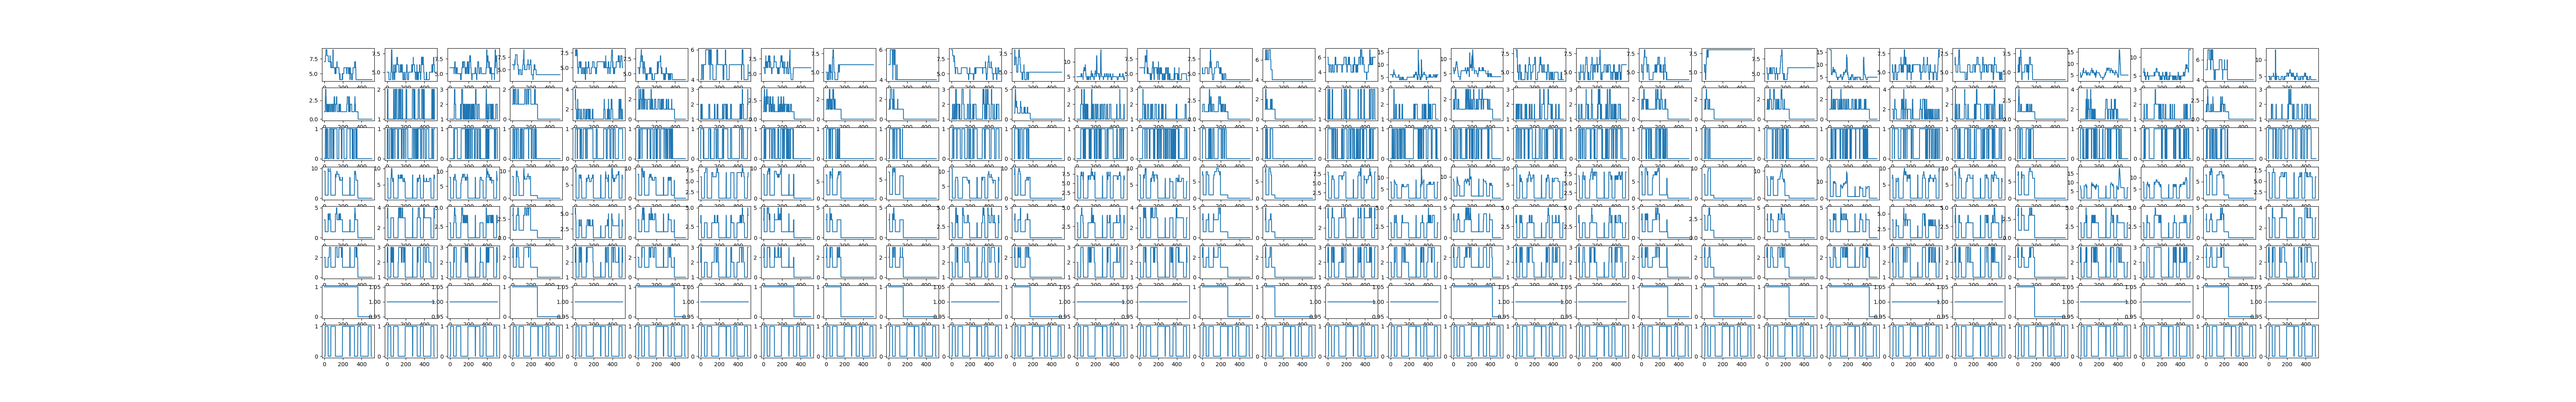
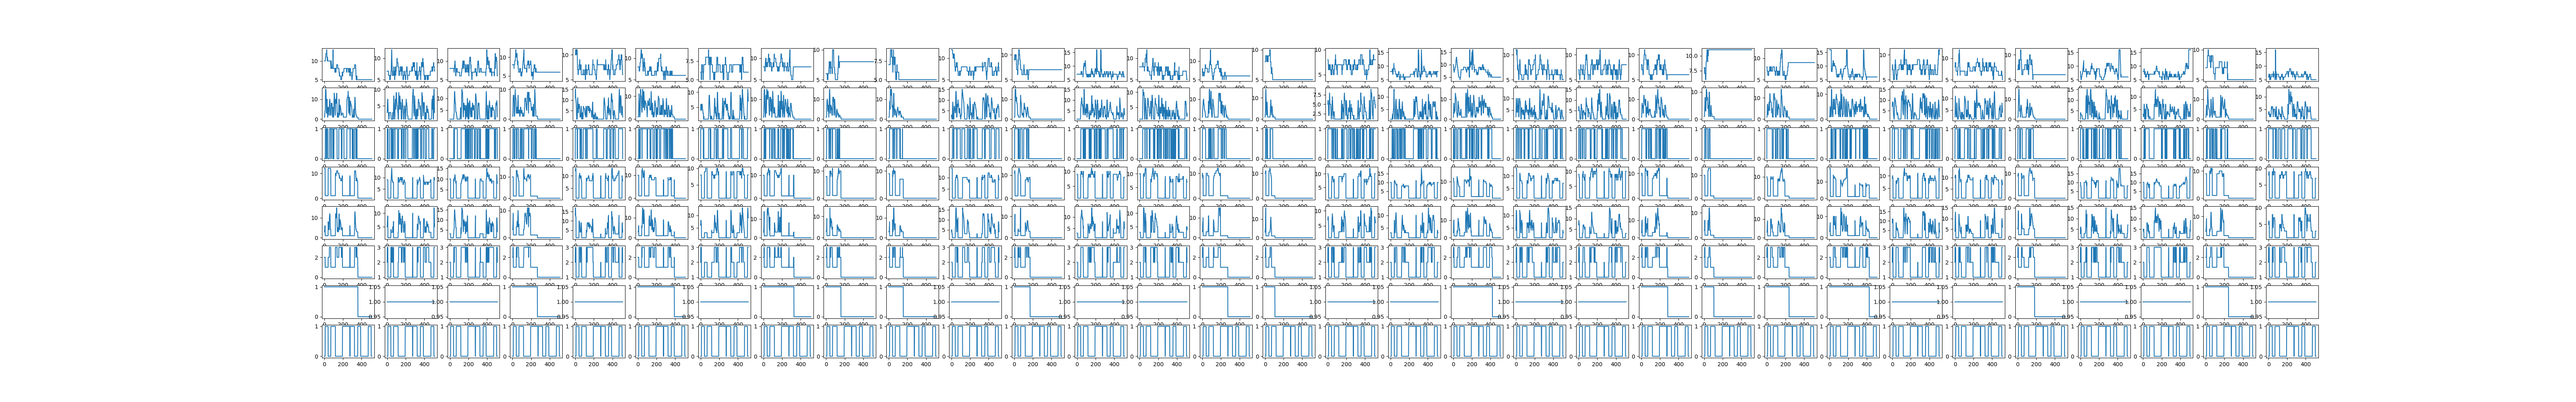
fix lr and stuff

diff --git a/configs/args.py b/configs/args.py
@@ -6,7 +6,6 @@ class TrainingArgs:
     lr: float = 1e-4
     lr_schedule: str = "linear_with_warmup"
     lr_warmup_steps: int = 1000
-    vad_loss_weight: float = 10.0
     gradient_clip_val: float = 1.0
     checkpoint_path: str = "checkpoints"
     output_path: str = "outputs"
@@ -45,9 +44,9 @@ class CollatorArgs:
     vocex_model: str = "cdminix/vocex"
     name: str = "default"
     pitch_min: float = 50
-    pitch_max: float = 400
+    pitch_max: float = 300
     energy_min: float = 0
-    energy_max: float = 1
+    energy_max: float = 0.2
     vad_min: float = 0
     vad_max: float = 1
 
